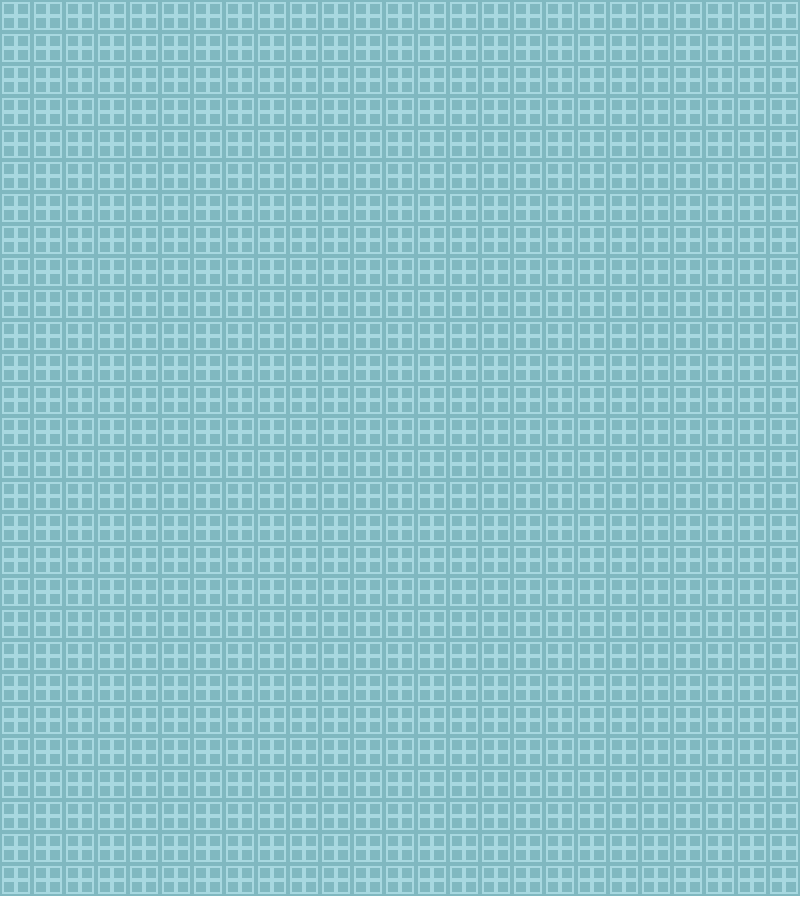
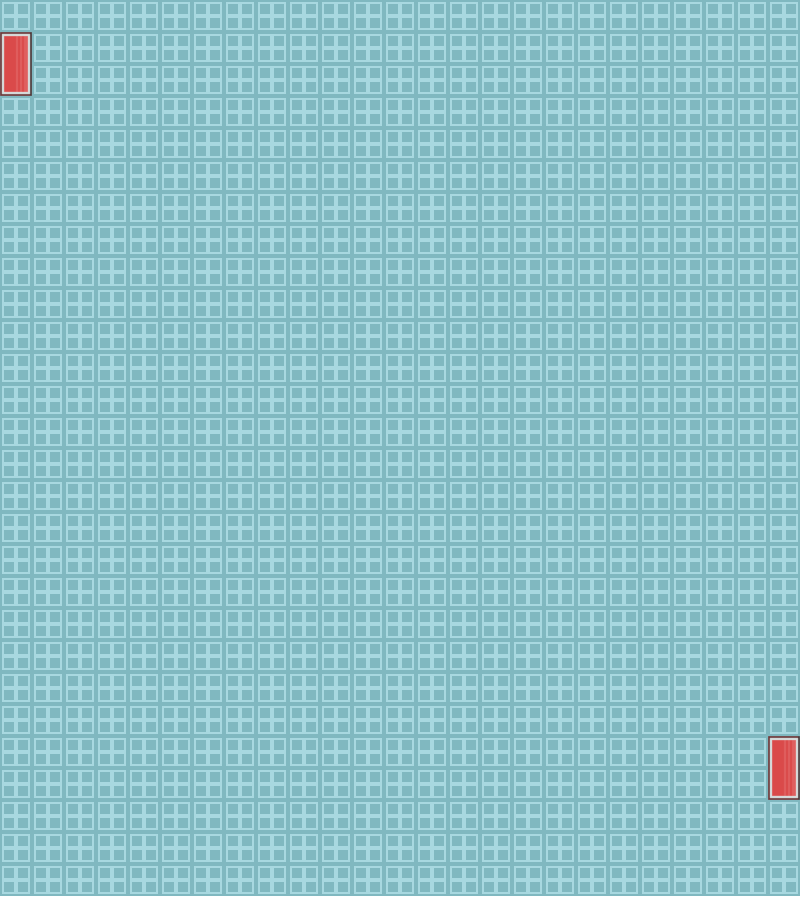
boy movement working (falta klasean sartzea)

Changed region(s): [[0.9375, 0.8089, 1.0, 0.9022], [0.0, 0.0311, 0.0625, 0.1244]]

diff --git a/Txertoak/src/erietxea/ErietxeApp.java b/Txertoak/src/erietxea/ErietxeApp.java
@@ -59,11 +59,12 @@ public class ErietxeApp {
 		
 /* ----------------------------------    TEST	-----------------------------------------	*/
 
-/*		Set boy's initial position --> pazientea/panela? */
+// Boy movement: falta visibility aldatzea
+/*		Set boy to initial position --> pazientea/panela? */
 		int startpx = 32 * 12 + 26;
 		int startpy = 32 * 9;
 
-		// for-a kendu
+		// for-a kendu funtzioa sortzean
 		// Thread.sleep -> itxaron()?
 		for (int boy = 0; boy < 1 /*PK*/; boy++) {
 
@@ -126,7 +127,43 @@ public class ErietxeApp {
 		}
 
 		panela.setBoyXY(boy, bedx + 4, bedy + 2);
+		
+		
+		Thread.sleep(500);
+		
+		
+/*		Move boy from bed to exit					*/		
+		boy = 0;
+		
+		// exit position
+		int exitx = 800-25;
+		int exity = 720;
+		
+		// bed 0 position
+		bedx = 300;
+		bedy = 350;
 
+		// hall X position
+		lefthall = bedx - 50;		
+		
+		// take out of bed
+		panela.setBoyXY(boy, lefthall, bedy + 32); // ohera sartzerakoan ezartzen diren aurkako zeinuak
+		
+		current = panela.getBoyXY(boy);
+		currentx = current[0];
+		currenty = current[1];
+		
+		for (int i = currenty; i < exity + 1; i++) {
+			panela.setBoyXY(boy, currentx, i);
+			Thread.sleep(10);
+		}
+
+		for (int i = currentx; i < exitx + 1; i++) {
+			panela.setBoyXY(boy, i, exity);
+			Thread.sleep(10);
+		}
+		
+		
 	}
 
 	

diff --git a/Txertoak/src/erietxea/Framea.java b/Txertoak/src/erietxea/Framea.java
@@ -15,7 +15,7 @@ public class Framea extends JFrame {
 		this.setTitle("Erietxea");
 		this.add(panela);
 		this.setDefaultCloseOperation(EXIT_ON_CLOSE);
-		this.setSize(800,900);
+		this.setSize(800,923);
 		this.setLocationRelativeTo(null);
 		this.setVisible(true);
 		this.setResizable(false);
